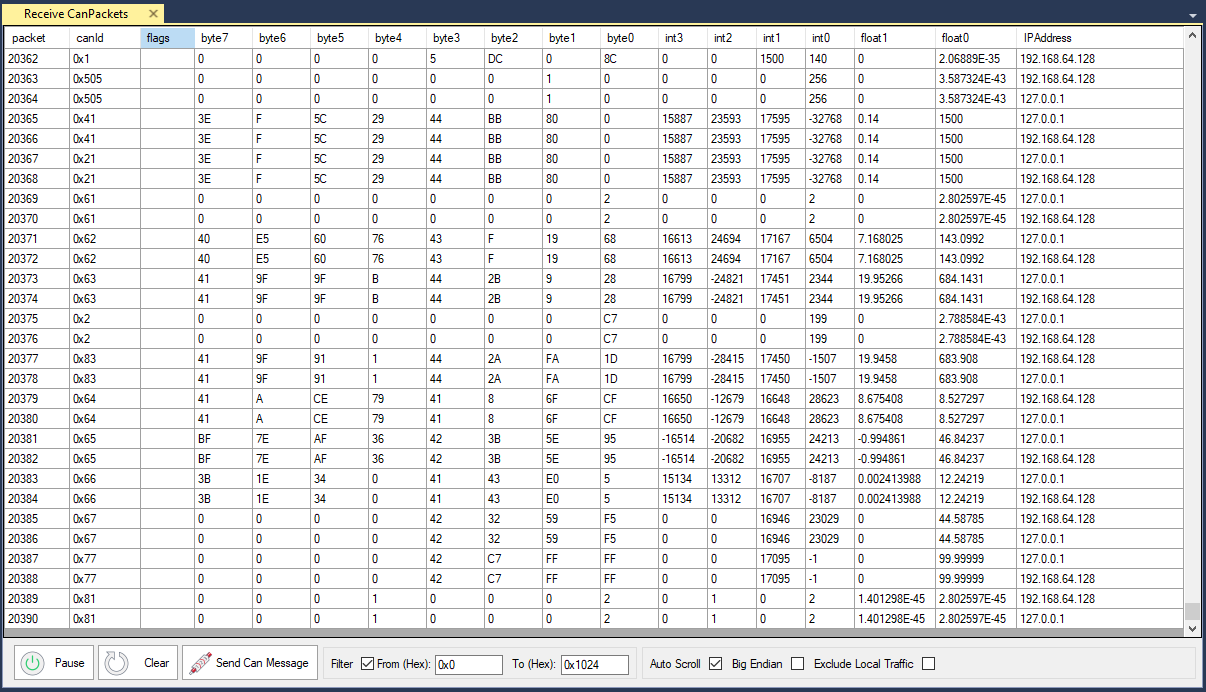
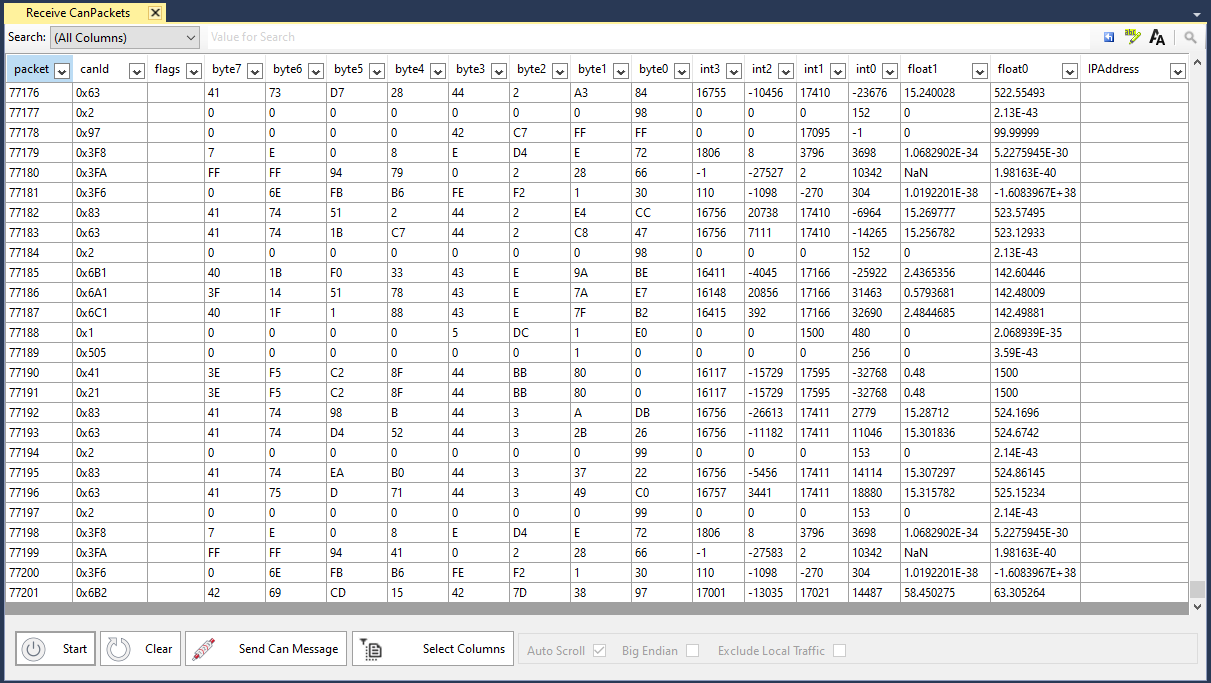
Documentation updates for 1.9

diff --git a/_documentation/Profinity/Logging_Replaying_CAN_Bus_Messages.md b/_documentation/Profinity/Logging_Replaying_CAN_Bus_Messages.md
@@ -1,8 +1,8 @@
 ---
-title: Log / Replay CAN Messages
+title: Log / Replay CAN
 tags: [Profinity, CAN Bus, CAN Bus DBC, DBC, Overview]
 keywords: Profinity, CAN Bus, CAN Bus DBC, DBC, Overview
-last_updated: November 3, 2020
+last_updated: June 26, 2021
 permalink: Profinity/Logging_Replaying_CAN_Bus_Messages.html
 folder: Profinity
 order: 5
@@ -10,7 +10,7 @@ order: 5
 
 # Log / Replay CAN Bus Messages
 
-Profinity provides the ability to both log and replay messages off your CAN Bus network.
+Profinity provides the ability to both log and replay messages off your CAN Bus network as well as the ability to log CanBUS data to timeseries databases like InfluxDB and Prometheus.
 
 To log a set of CAN Bus messages first add an adapter to your [Profile](Profiles.html) and then connect to the adapter.  
 
@@ -18,7 +18,11 @@ It's always worth checking that you are actually receiving CAN Bus messages by u
 
 ## Logging CAN Bus
 
-The CAN Bus logger has three main modes of operation, you can either
+There are two distinct types of loggers available in Profinity, loggers to log to file and loggers that log to timeseries databases.
+
+All loggers are configured in the same manner, by adding a logging device to the Profile.
+
+File based loggers in Profinity have three potential modes of operation, you can either
 
 | Log Mode              | Details                                                                             |
 | --------------------- | ----------------------------------------------------------------------------------- |
@@ -26,7 +30,7 @@ The CAN Bus logger has three main modes of operation, you can either
 | Log Remotely via FTP  | As well as logging locally this option takes the log file and places it on a remote FTP server for off site analysis.        |
 | Log Remotely via SFTP | As per FTP, but this time a Secure FTP (SFTP) end point is used as the destination. | 
 
-Depending on the mode you select, Profinity will present you with different destination options.  For FTP and SFTP it is necessary to provide the destination server, username and password.  For local logging only a directory is required.
+Depending on the item you select, Profinity will present you with different destination options.  For FTP and SFTP it is necessary to provide the destination server, username and password.  For local logging only a directory is required.
 
 The logger also gives you the ability to manage Archive and Compression settings, if you wish to archive your messages you must provide an archive directory.
 
@@ -40,7 +44,7 @@ Finally the logger allows you to set the frequency of rotation.  Rotation means 
 
 ![Data Logger]({{site.dox.baseurl}}/images/Profinity/data_logger.png)
 
-Logging configurations are currently stored separately to the profile and you can also load and existing config or save a new logging config on this screen.
+Logging configurations are stored as part of your profile so when you load a profile, if you have the logger setup to automatically start then it will start logging automatically.
 
 ## Data Validation
 
@@ -60,7 +64,7 @@ To use this tool simply select the log file and it will start replaying.  There 
 | --------------------- | ------------------------------------------------- |
 | Include / Exclude IDs | Instruct the log replayer to only include or exclude values between these two CAN Bus IDs |
 | Loop log file replay  | When the log file reaches the end, automatically loop back to the start |
-| Transmit CAN Bus over Network | Normally the log file is only replayed locally, by selecting the Transmit option the log file is transmitted over any active CAN Bus adapters |
+| Transmit CAN Bus over Network | Normally the log file is only replayed locally, by selecting the Transmit option the log file is transmitted over any active CAN-Ethernet Bridges |
 
 Sliding the slider back and forth allows you to easily move to new locations in the CAN Bus replay file.
 

diff --git a/_documentation/Profinity/Profiles.md b/_documentation/Profinity/Profiles.md
@@ -10,7 +10,7 @@ order: 1
 
 # Profinity Profiles
 
-A Profile is the core mechanism by which Profinity maintains the configuration of your system.  Profiles typically consist of one or more CAN Bus adapters, which are used to connect to the CAN network as well as devices that you might be managing.
+A Profile is the core mechanism by which Profinity maintains the configuration of your system.  Profiles typically consist of one or more CAN-Ethernet Bridges, which are used to connect to the CAN network as well as devices that you might be managing.
 
 Profinity keeps track of your profile and loads the most recently used one each time you start the tool.
 
@@ -25,9 +25,9 @@ The colors in a profile indicate the state of the device.
 - Red: The device is in an error state
 - Grey: The device is not available, connected or not visible on the network
 
-Profinity ships with an example profile called the PET Profile (Prohelion / Elmar / Tritium) which contains all the necessary configuration to support a vehicle based on Prohelion, Elmar and Tritium technologies.  If you wish to use this profile we would suggest copying it from the /Profiles/Templates folder that it is installed in to in to your Profile folder as Templates are over witten on each install.
+Profinity ships with an example profile called the PET Profile (Prohelion / Elmar / Tritium) which contains all the necessary configuration to support a vehicle based on Prohelion, Elmar and Tritium technologies.  If you wish to use this profile as a basis for your own work we would suggest copying it to a new file name as the file is overwritten each time you install a new version of Profinity. 
 
-Otherwise you can create your own Profiles or a new Profile, but pushing the New Profile button on the menu.
+Otherwise you can create your own Profiles or a new Profile, by pushing the New Profile button on the menu.
 
 ## Profile Files
 
@@ -35,15 +35,17 @@ In Profinity the profiles themselves are stored by default as files in
 
 `/Documents/Prohelion/Profinity/Profiles`
 
-While it is possible to edit the profile file directly we do not recommend you do so. 
+While it is possible to edit the profile file directly in a text we do not recommend you do so. 
 
-Storing the file in this way makes it easy to share a Profile and if it makes sense if your environment, profiles can be stored on network drives or other shares such as Google Drive or Dropbox.
+Storing the file in this way makes it easy to share a Profile and if it makes sense if your environment, profiles can be stored on network drives or other shares such as Google Drive or Dropbox, you can also share a read only version of your Profile via [Prohelion Cloud Connect](Prohelion_Cloud_Connect.html)
 
 ## Profile Properties
 
-Each item in the profile has a set of properties that define the configuration of the item.  These properties can be accessed by right mouse clicking on the item and selecting properties.  The properties then appear at the bottom of the profile panel.
+Each item in the profile has a set of properties that define the configuration of the item.  These properties can be accessed by selecting the item or right mouse clicking on the item and selecting properties.  The properties then appear at the bottom of the profile panel, changing a property will set it in the profile.
 
-Properties can also be set when the item is first created in the [New Items](Adding_New_Items.html) window.
+Properties can also be set when the item is first created in the [New Items](Adding_New_Items.html) window.  
+
+However, not all devices are configured directly via Properties, some devices that have more complex configuration setups like the [Prohelion Loggers](Logging_Replaying_CAN_Bus_Messages.html) are configured via wizards that set the underlying properties correctly for you.  
 
 ![Profinity]({{site.dox.baseurl}}/images/Profinity/profile_properties.png)
 

diff --git a/_documentation/Profinity/Tritium_Wavesculpter.md b/_documentation/Profinity/Tritium_Wavesculpter.md
@@ -1,19 +1,21 @@
 ---
-title: Tritium Wavesculpter
+title: Tritium WaveSculptor
 tags: [Profinity, CAN Bus, CAN Bus DBC, DBC, Overview]
 keywords: Profinity, CAN Bus, CAN Bus DBC, DBC, Overview
 last_updated: November 3, 2020
-permalink: Profinity/Tritium_Wavesculpter.html
+permalink: Profinity/Tritium_WaveSculptor.html
 folder: Profinity
-order: 8
+order: 10
 ---
 
-# Tritium WaveSculpter
+# Tritium WaveSculptor
 
-[Tritium](https://www.tritiumcharging.com/) make the world lead WaveSculpter Motor Inverter, used by racing teams around the world.  With 99.2% cruising efficiency the WaveSculpter family is a go to choice for most high efficiency electric vehicle racing teams.
+[Tritium](https://www.tritiumcharging.com/) initially created the WaveSculptor Motor Inverter, used by racing teams around the world.  With 99.2% cruising efficiency the WaveSculptor family is a go to choice for most high efficiency electric vehicle racing teams.  In 2021 [Prohelion](https://www.prohelion.com) took over the design, manufacturing and support for this product.
 
-Profinity provides integrated management of the WaveSculpter products and you can access the WaveSculpter dashboard by adding a WaveSculpter to your [Profile](Profiles.html). 
+Profinity provides integrated management of the WaveSculptor products and you can access the WaveSculptor dashboard by adding a WaveSculptor to your [Profile](Profiles.html). 
 
-From there right mouse client to access the WaveSculpter Dashboard or to access the CAN Bus Messages and Signals.
+From there right mouse client to access the WaveSculptor Dashboard or to access the CAN Bus Messages and Signals.
 
-![Tritium WaveSculpter]({{site.dox.baseurl}}/images/Profinity/wavesculpter.png)
+![Tritium WaveSculptor]({{site.dox.baseurl}}/images/Profinity/WaveSculptor.png)
+
+Prohelion is currently migrating all of the Tritium WaveSculptor supporting software in to Profinity, in this release the configuration of the WaveSculptor tools is still handed by the Tritium software and we expect to migrate all of that functionality to Profinity over time.

diff --git a/_documentation/Open_Source/ArrowPoint_Telemetry/Alerting.md b/_documentation/Open_Source/ArrowPoint_Telemetry/Alerting.md
@@ -28,9 +28,9 @@ Alerting is done via a visual cue using USB HID Visual Signal Indicators from De
 | BMS           | CMU 4 PCB Temp            | 60A4  | 24740             | 750               | 800               | 850                   | High          |
 | BMS           | CMU 5 PCB Temp            | 60D4  | 24788             | 750               | 800               | 850                   | High          |
 | BMS           | Overvoltage               | 6F82  | 28546             | 4100              | 4150              | 4200                  | High          |
-| WaveSculpter  | Motor Temp                | 40B0  | 16560             | 90                | 100               | 120                   | High          |
-| WaveSculpter  | Heatsink Temp             | 40B4  | 16564             | 60                | 65                | 80                    | High          |
-| WaveSculpter  | DSP Operating Temp        | 40C0  | 16576             | 80                | 90                | 100                   | High          |
+| WaveSculptor  | Motor Temp                | 40B0  | 16560             | 90                | 100               | 120                   | High          |
+| WaveSculptor  | Heatsink Temp             | 40B4  | 16564             | 60                | 65                | 80                    | High          |
+| WaveSculptor  | DSP Operating Temp        | 40C0  | 16576             | 80                | 90                | 100                   | High          |
 | Arrays        | Array 1 Power             | 3410  | 13328             | 0.1               | 1.2               | 1.2                   | Percentage    |
 | Arrays        | Array 2 Power             | 3420  | 13344             | 0.1               | 1.2               | 1.2                   | Percentage    |
 | Arrays        | Array 3 Power             | 3430  | 13360             | 0.1               | 1.2               | 1.2                   | Percentage    |

diff --git a/_documentation/Profinity/Overview.md b/_documentation/Profinity/Overview.md
@@ -28,8 +28,8 @@ Profinity is built around the concept of [profiles](Profiles.html), which is a s
 
 ![Profinity]({{site.dox.baseurl}}/images/Profinity/profinity_overview.png)
 
-Profinity can connect to CAN Bus adapters, which translate CAN Bus traffic from your network to the PC, you can send and receive CAN Bus messages, log messages and replay them.
+Profinity can connect to CAN-Ethernet Bridges, which translate CAN Bus traffic from your network to the PC, you can send and receive and view CAN Bus messages either raw or using DBC, log messages and replay them.  You can also use Profinity to share CAN Bus data from your system to your team, either in near real time via a [Prohelion Cloud Connect](Prohelion_Cloud_Connect.html) data stream, or via the logs. 
 
-On top of this Profinity provides specialised tools for managing [Prohelion Batteries](Prohelion_Batteries.html), MPPT systems from [Elmar Solar](Elmar_Solar_MPPT.html) and [Tritium WaveSculpters](Tritium_Wavesculpter.html) as well as any device that can be defined by a CAN DBC file.  Over coming releases we will be extending our supported devices to include a range of chargers and other tools that are used in industry.
+On top of this Profinity provides specialised tools for managing [Prohelion Batteries](Prohelion_Batteries.html), MPPT systems from [Elmar Solar](Elmar_Solar_MPPT.html) and [Tritium WaveSculptors](Tritium_WaveSculptor.html) as well as any device that can be defined by a CAN DBC file.  Over coming releases we will be extending our supported devices to include a range of chargers and other tools that are used in industry.
 
 If you require support or assistance, please [Contact Us](https://www.prohelion.com/contact-us/) via the Prohelion Website or you can log bugs or requests for improvement on our [GitHub issues page](https://github.com/Prohelion/Profinity/issues)

diff --git a/_documentation/Profinity/CAN_Bus_DBC.md b/_documentation/Profinity/CAN_Bus_DBC.md
@@ -5,7 +5,7 @@ keywords: Profinity, CAN Bus, CAN Bus DBC, DBC, Overview
 last_updated: November 3, 2020
 permalink: Profinity/CAN_Bus_DBC.html
 folder: Profinity
-order: 9
+order: 11
 ---
 
 # CAN Bus DBC
@@ -20,4 +20,4 @@ To use the DBC viewer with a third party DBC file you need to [create a new item
 
 Once this has been done then you will see the item in your profile and by right mouse clicking on it you can access information about its Messages and Signals.
 
-Many of the other components supported by Profinity such as the [Elmar Solar MPPT](Elmar_Solar_MPPT.html) and the [Tritium WaveSculpter](Tritium_Wavesculpter.html) have support for DBC built in to the component and also allow you to view Messages and Signals, without requiring a separate DBC file.
+Many of the other components supported by Profinity such as the [Elmar Solar MPPT](Elmar_Solar_MPPT.html) and the [Tritium WaveSculptor](Tritium_WaveSculptor.html) have support for DBC built in to the component and also allow you to view Messages and Signals, without requiring a separate DBC file.

diff --git a/_documentation/Profinity/Prohelion_Batteries.md b/_documentation/Profinity/Prohelion_Batteries.md
@@ -2,10 +2,10 @@
 title: Prohelion Batteries
 tags: [Profinity, CAN Bus, CAN Bus DBC, DBC, Overview]
 keywords: Profinity, CAN Bus, CAN Bus DBC, DBC, Overview
-last_updated: November 3, 2020
+last_updated: June 26, 2021
 permalink: Profinity/Prohelion_Batteries.html
 folder: Profinity
-order: 6
+order: 8
 ---
 
 # Prohelion Batteries
@@ -51,7 +51,9 @@ The next row shows Precharge status information on the left:
 
 *         Contactor 12V supply voltage presence (mV on v4 or older BMUs)
 
-The bottom row in the BMU section shows the various status flags:
+The buttons in the BMU section shows the various status flags, some flags are normal and show green when engaged, if buttons are showing orange or red then consult the BMU manual for more information.
+
+Note that when not engaged or receiving messages from the control module the BMU will drop back to its safe precharge state which is the error state.  Consult the BMU documentation for more information but note that that error state can be part of normal operation.
 
 *         CMU Power supply OK
 

diff --git a/_documentation/Open_Source/ArrowPoint_Telemetry/Setup.md b/_documentation/Open_Source/ArrowPoint_Telemetry/Setup.md
@@ -40,7 +40,7 @@ docker-compose.yml
 This file contains the configuration information to run the software in Docker.
 
 ## Known Issue
-Docker does not support UDP traffic on its virtual network. As such the telemetry system cannot receive traffic from the CAN Bus devices such as the Tritum Wavesculpter. To get around this issue the infrastructure required to run the Telemetry system runs in Docker apart from the core application which runs as a stand alone Spring Boot Application and hence can access the UDP network directly.
+Docker does not support UDP traffic on its virtual network. As such the telemetry system cannot receive traffic from the CAN Bus devices such as the Tritum WaveSculptor. To get around this issue the infrastructure required to run the Telemetry system runs in Docker apart from the core application which runs as a stand alone Spring Boot Application and hence can access the UDP network directly.
 
 ## Installation Steps
 

diff --git a/_documentation/Open_Source/ArrowPoint_Telemetry/Overview.md b/_documentation/Open_Source/ArrowPoint_Telemetry/Overview.md
@@ -42,7 +42,7 @@ For the full feature list see the Telemetry System Features section, but at a hi
 The application is compatible with
 
 * Prohelion Battery Packs
-* Tritium WaveSculpters
+* Tritium WaveSculptors
 * Prohelion and Tritium BMUs and CMUs
 
 Any issues please or question, please raise them on our GitHub account at [https://github.com/Prohelion/ArrowPoint-Telemetry](https://github.com/Prohelion/ArrowPoint-Telemetry) or see the [Software Troubleshooting page](../Open_Source/Troubleshooting.html).

diff --git a/_documentation/Open_Source/ArrowPoint_CanBUS_Tools/Overview.md b/_documentation/Open_Source/ArrowPoint_CanBUS_Tools/Overview.md
@@ -35,7 +35,7 @@ The application is compatible with
 
 * Prohelion Battery Packs
 * Prohelion and Tritium Driver Controllers
-* Tritium WaveSculpters
+* Tritium WaveSculptors
 * Tritium BMUs and CMUs
 
 The Wifi connection should be broadcasting CAN Bus data using the Tritium CAN Bus identifiers.

diff --git a/_documentation/Open_Source/ArrowPoint_Tablet/Overview.md b/_documentation/Open_Source/ArrowPoint_Tablet/Overview.md
@@ -34,7 +34,7 @@ The application provides
 
 The application is compatible with
 * Prohelion Battery Packs
-* Tritium WaveSculpters
+* Tritium WaveSculptors
 * Tritium BMUs and CMUs
 
 The Wifi connection should be broadcasting CAN Bus data using the Prohelion and Tritium CAN Bus identifiers.

diff --git a/_documentation/Profinity/Send_Receive_CAN_Bus_Messages.md b/_documentation/Profinity/Send_Receive_CAN_Bus_Messages.md
@@ -1,5 +1,5 @@
 ---
-title: Send / Receive CAN Messages
+title: Send / Receive CAN
 tags: [Profinity, CAN Bus, CAN Bus DBC, DBC, Overview]
 keywords: Profinity, CAN Bus, CAN Bus DBC, DBC, Overview
 last_updated: November 3, 2020
